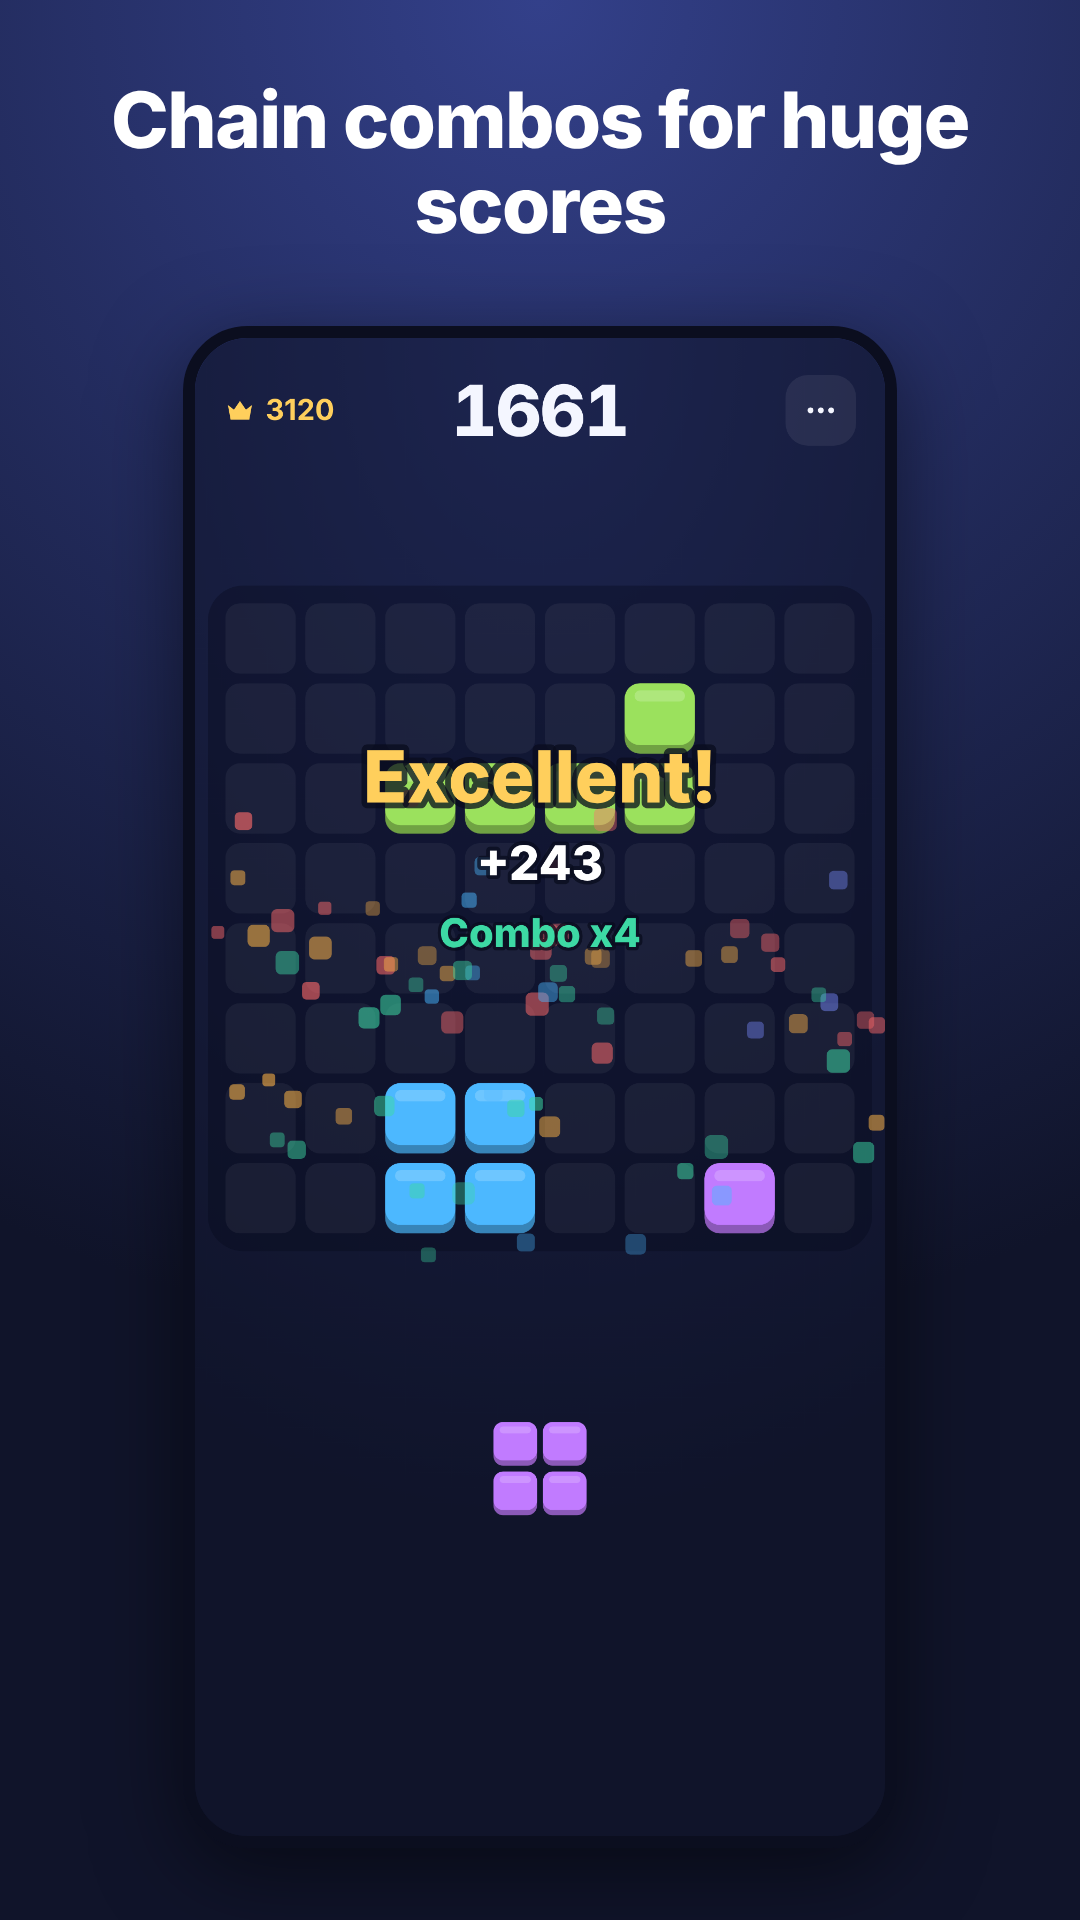
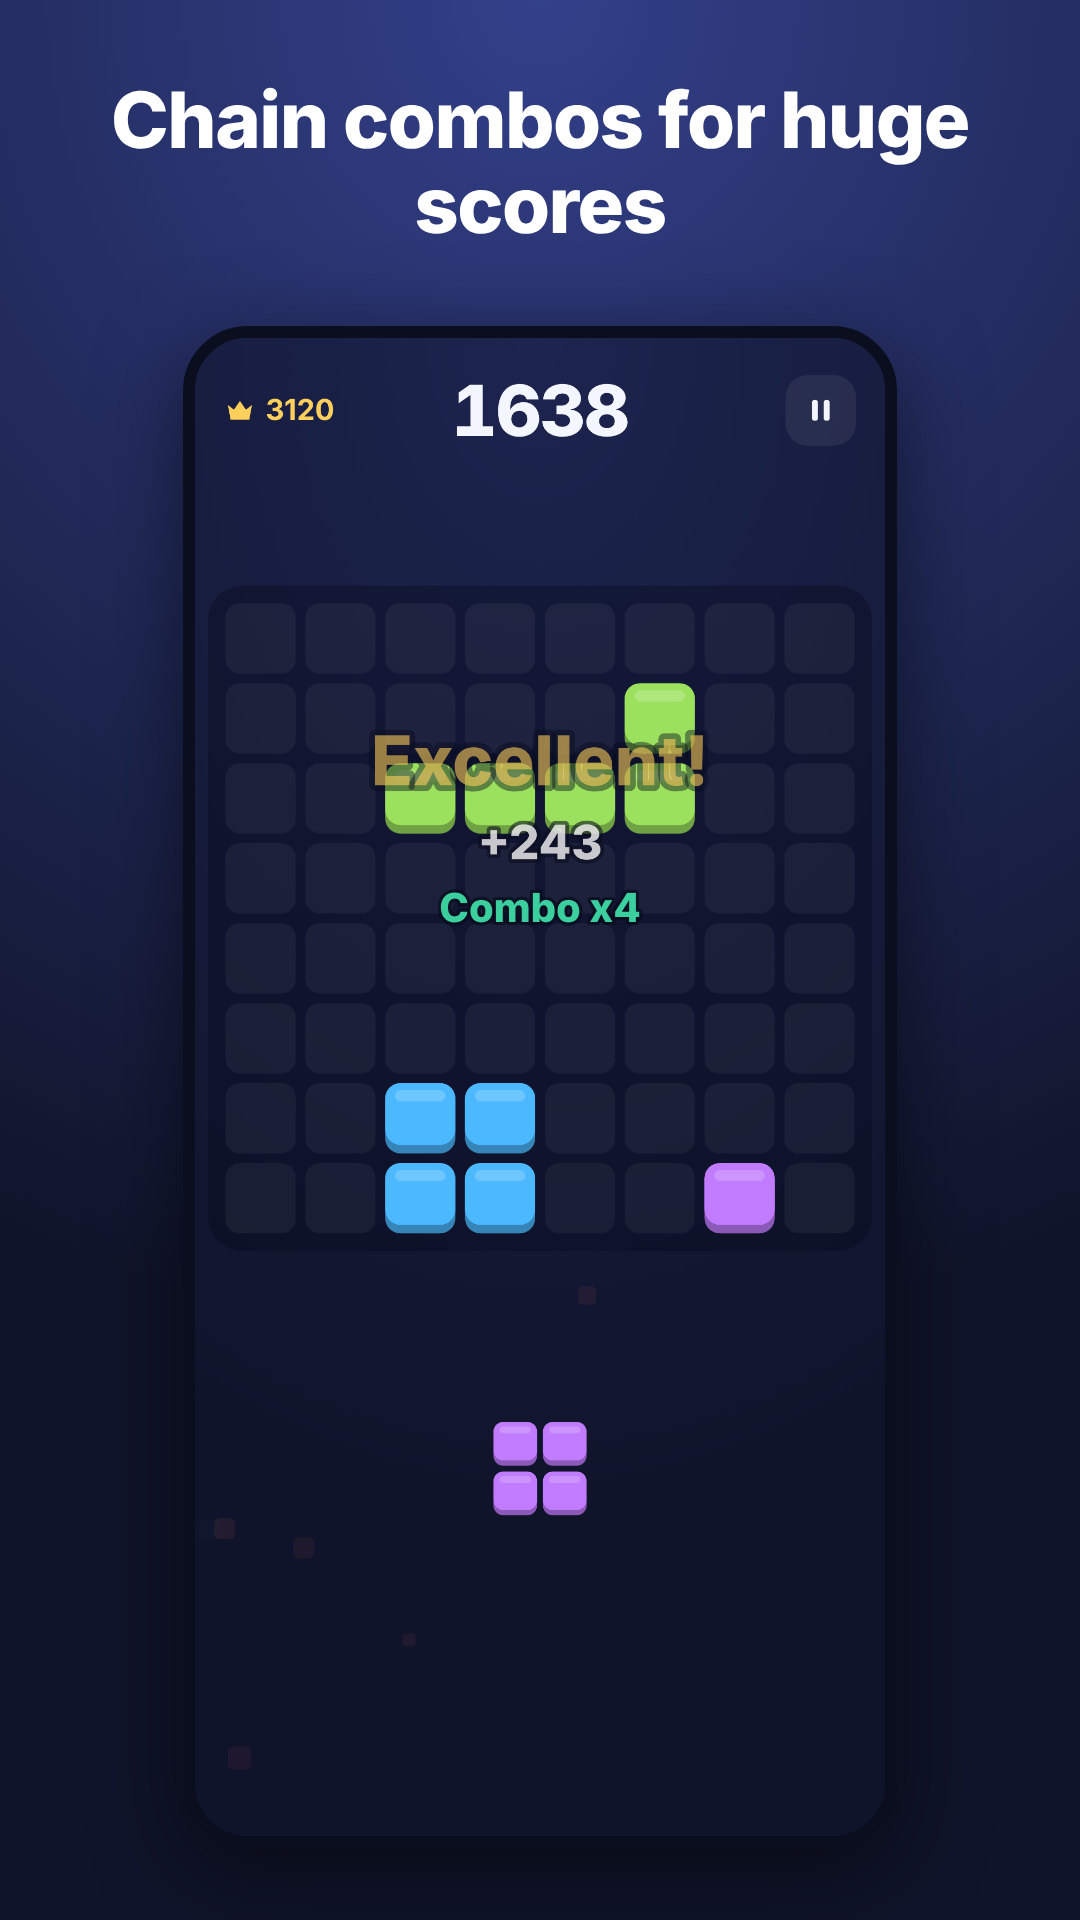
Snapgrid: native AdMob/IAP setup, store screenshots with home menu, docs
Claude-Session: https://claude.ai/code/session_01EtEyt6Z4NXXyikbrNG6jg3

diff --git a/games/snapgrid/ios/App/CapApp-SPM/Package.swift b/games/snapgrid/ios/App/CapApp-SPM/Package.swift
@@ -12,11 +12,13 @@ let package = Package(
     ],
     dependencies: [
         .package(url: "https://github.com/ionic-team/capacitor-swift-pm.git", exact: "8.5.3"),
+        .package(name: "CapacitorCommunityAdmob", path: "../../../../../node_modules/@capacitor-community/admob"),
         .package(name: "CapacitorCommunityInAppReview", path: "../../../../../node_modules/@capacitor-community/in-app-review"),
         .package(name: "CapacitorApp", path: "../../../../../node_modules/@capacitor/app"),
         .package(name: "CapacitorHaptics", path: "../../../../../node_modules/@capacitor/haptics"),
         .package(name: "CapacitorSplashScreen", path: "../../../../../node_modules/@capacitor/splash-screen"),
-        .package(name: "CapacitorStatusBar", path: "../../../../../node_modules/@capacitor/status-bar")
+        .package(name: "CapacitorStatusBar", path: "../../../../../node_modules/@capacitor/status-bar"),
+        .package(name: "CapgoNativePurchases", path: "../../../../../node_modules/@capgo/native-purchases")
     ],
     targets: [
         .target(
@@ -24,11 +26,13 @@ let package = Package(
             dependencies: [
                 .product(name: "Capacitor", package: "capacitor-swift-pm"),
                 .product(name: "Cordova", package: "capacitor-swift-pm"),
+                .product(name: "CapacitorCommunityAdmob", package: "CapacitorCommunityAdmob"),
                 .product(name: "CapacitorCommunityInAppReview", package: "CapacitorCommunityInAppReview"),
                 .product(name: "CapacitorApp", package: "CapacitorApp"),
                 .product(name: "CapacitorHaptics", package: "CapacitorHaptics"),
                 .product(name: "CapacitorSplashScreen", package: "CapacitorSplashScreen"),
-                .product(name: "CapacitorStatusBar", package: "CapacitorStatusBar")
+                .product(name: "CapacitorStatusBar", package: "CapacitorStatusBar"),
+                .product(name: "CapgoNativePurchases", package: "CapgoNativePurchases")
             ]
         )
     ]

diff --git a/games/snapgrid/GAME.md b/games/snapgrid/GAME.md
@@ -51,7 +51,11 @@ tahtayı tamamen boşaltma +300.
 - [x] TR / EN yerelleştirme (cihaz diline göre)
 - [x] Android geri tuşu, status bar, splash, dikey yön kilidi, safe-area
 - [x] Mağaza değerlendirme isteği (≥4 oyun + rekor anı, 30 günde bir)
-- [x] Reklam soyutlaması (sağlayıcı bağlanınca aktif olur)
+- [x] **Meta katmanı:** ana menü (oyuna özgü animasyonlu görsel), 3 günlük görev (oyun, satır, kombo, puan),
+      7 günlük ödül takvimi, mağaza (6 blok paleti: Klasik, Pastel, Okyanus, Gün batımı, Orman, Neon),
+      video ile ücretsiz jeton, uygulama içi satın alma (başlangıç paketi, reklamsız, jeton paketleri)
+- [x] Duraklat menüsü; oyun sonunda jetonla (100/200/400) ya da videoyla devam
+- [x] AdMob (geçiş + ödüllü) ve uygulama içi satın alma, test kimlikleriyle kurulu
 
 ## Analytics olayları
 
@@ -88,6 +92,8 @@ tarayıcıda tam akış: öğretici → oyun sonu → devam et → oyun sonu →
 
 Yalnızca hesap sahibinin yapabileceği adımlar kaldı:
 
+- [ ] AdMob: gerçek uygulama/reklam kimlikleri (AndroidManifest, Info.plist, `initAds({ units, testing: false })`)
+- [ ] Play Console / App Store Connect'te ürünler: `remove_ads`, `starter_pack`, `coins_small`, `coins_large`
 - [ ] `capacitor.config.ts` → `appId` kendi alan adınla (ör. `com.<adın>.snapgrid`), sonra `npx cap sync`
 - [ ] `PRIVACY.md`'yi herkese açık bir URL'de yayınla (GitHub Pages / public repo) ve `src/main.ts` → `PRIVACY_URL`
 - [ ] Android: Actions → **Android build** ile APK'yı cihazda dene; release keystore oluştur ve AAB'yi imzala
